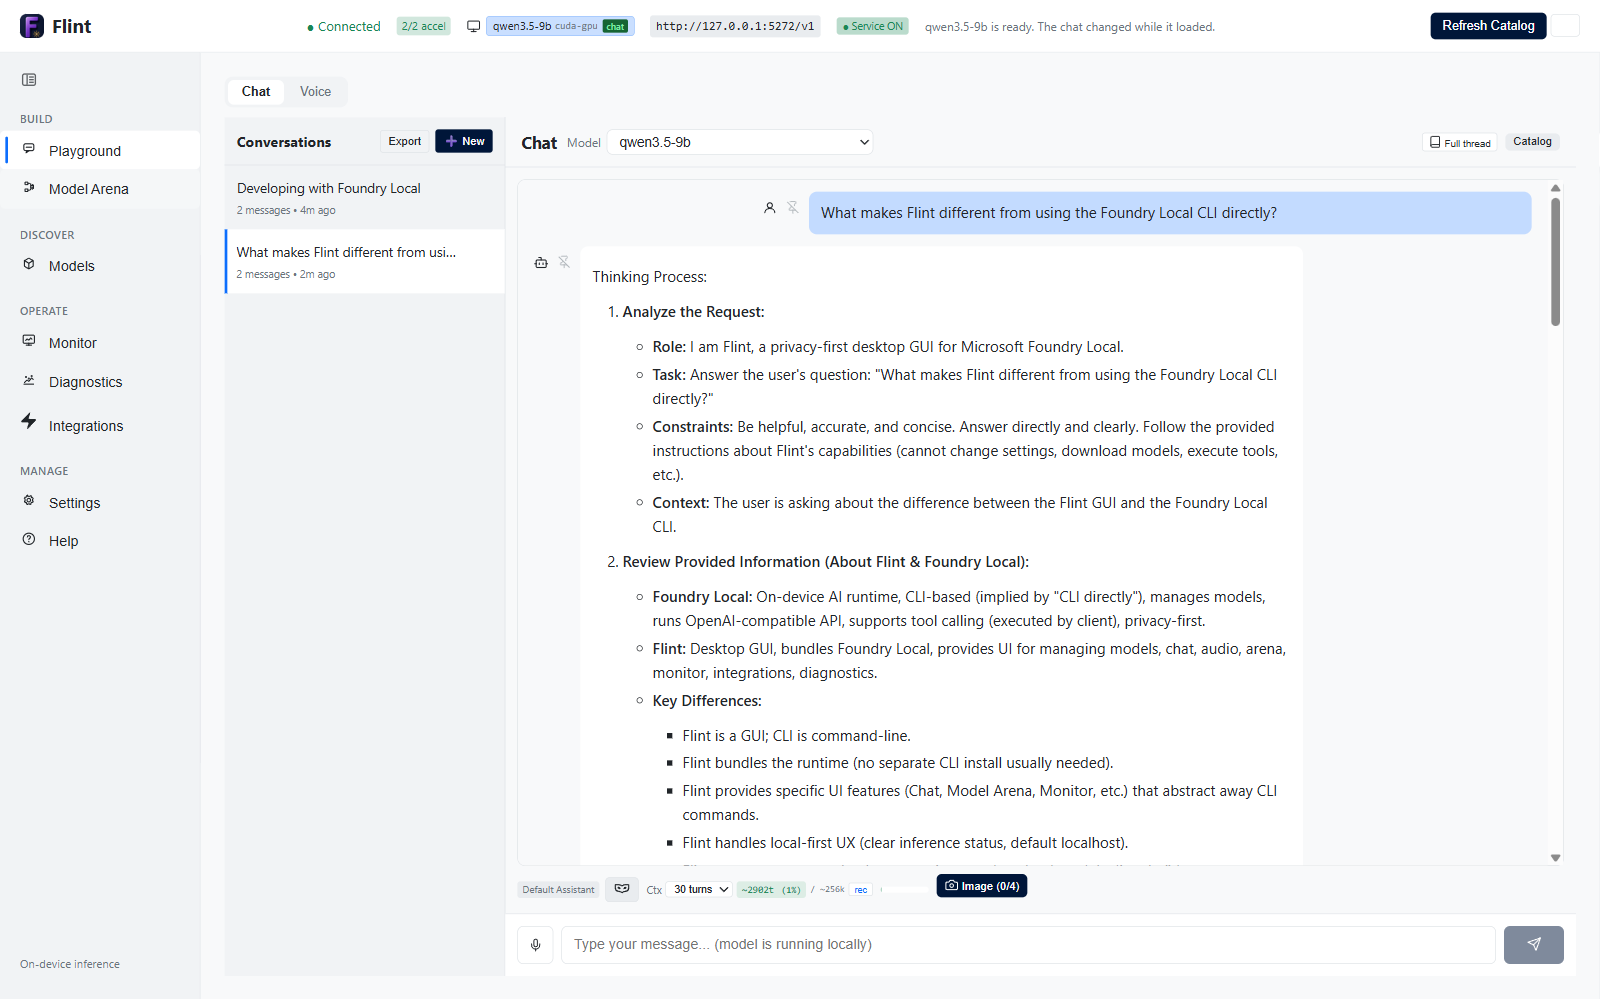
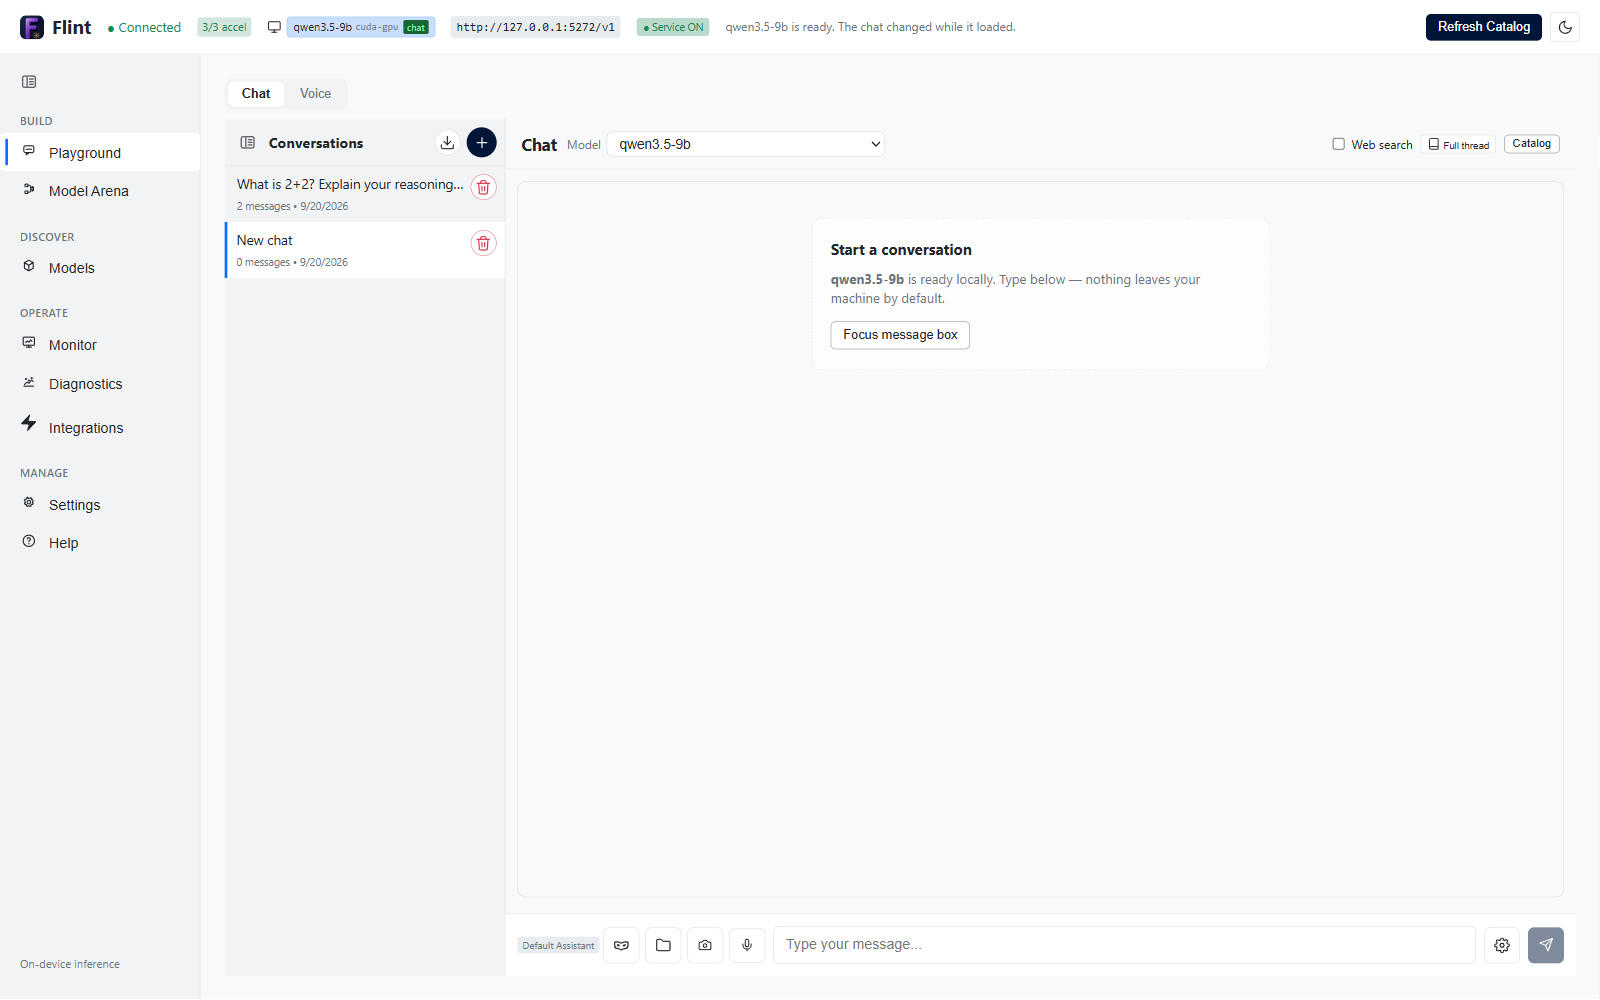
docs: refresh the 0.10.0 Windows screenshots and release notes (#192)
* docs: align the 0.10.0 release documentation

Name 0.9.2 as the published release and 0.10.0 as the next one. Record that the Windows screenshots were recaptured for that candidate and the macOS set was not. Correct Web search, the one-image limit, and where search approvals are cleared.

* docs: refresh the Windows README screenshots

Recapture the nine Windows sections in dark and light mode from a dev build stamped 0.10.0. The macOS images are unchanged.

* docs: record that the macOS screenshots are refreshed

The macOS images landed separately. The 0.10.0 notes no longer say those files are the previous capture.

* Finish 0.10.0 qualification gates and update screenshots

Complete qualification gates for version 0.10.0 and update README screenshots.

* Update README with new Windows and macOS screenshots

The README includes updated screenshots for Windows and macOS.

diff --git a/README.md b/README.md
@@ -53,7 +53,7 @@ Use the CLI when you want a terminal-first workflow. Use Flint when you want the
 - **Operate** — Monitor (pool, resource gauges, access/audit logs), Diagnostics (service start/stop, endpoint self-test, health ring), Integrations (copy-paste setup for OpenAI-compatible tools)
 - **Manage** — Settings (bind/port with Apply & restart, autostart, defaults, shortcuts (`?`)) and Help (first-run coaching, empty-state guidance, About strip)
 
-Chat supports streaming, conversations, personas, system prompts, multi-image vision, host-aware context, and optional URL → context. Audio supports mic + file transcription (STT).
+Chat supports streaming, conversations, personas, system prompts, one attached image on a vision model, host-aware context, URL chips, and an opt-in header Web search. Audio supports mic and file transcription.
 
 No system Node install is required: release builds bundle their own Node 22 runtime for the Foundry sidecar.
 
@@ -61,7 +61,7 @@ No system Node install is required: release builds bundle their own Node 22 runt
 
 ## Status
 
-Pre-1.0: expect breaking changes. **0.9.0 is Flint's first stable channel release** (0.8.0 was skipped), following the 0.7.0 evaluation prerelease. [Installers and release notes](https://github.com/joelst/flint/releases).
+Pre-1.0: expect breaking changes. The published stable release is **[0.9.2](https://github.com/joelst/flint/releases/tag/v0.9.2)**. **0.9.0** was the first stable channel release (0.8.0 was skipped), after the 0.7.0 evaluation prerelease. **0.10.0** is the next release from this tree and is not published yet. [Installers and release notes](https://github.com/joelst/flint/releases).
 
 - Windows installers carry a **public-trust Authenticode signature** issued through Azure Trusted Signing, so they validate against the Microsoft-managed root on any machine — no certificate to install and no "unknown publisher" prompt. Bundles ship the Foundry native cores and a pinned Node 22 runtime, verified in CI.
 - macOS builds are **unsigned** (no Apple Developer account) — install with the one-liner below, not the DMG, or Gatekeeper will call the app "damaged".
@@ -75,8 +75,8 @@ Living reliability plan: **[docs/PRODUCT_PLAN.md](./docs/PRODUCT_PLAN.md)** · E
 
 ## Screenshots
 
-Each section shows Windows and macOS in dark mode (Flint's default) and light mode. Benchmark Preview is opt-in and off by default, so it is not part of this default screenshot set.
-Regenerate these with `node scripts/capture-screenshots.mjs` — see
+Each section shows dark mode (Flint's default) and light mode. The Windows and macOS images were recaptured for the 0.10.0 candidate. The Windows capture is a dev build whose Help and Settings version reads v0.10.0. Benchmark Preview is opt-in and off by default, so it is not part of this set.
+Regenerate either platform with `node scripts/capture-screenshots.mjs` — see
 [docs/DEVELOPMENT.md](./docs/DEVELOPMENT.md#screenshots).
 
 ### Chat
@@ -166,7 +166,7 @@ Regenerate these with `node scripts/capture-screenshots.mjs` — see
 
 ### Use a release build
 
-1. Install a build from [GitHub Releases](https://github.com/joelst/flint/releases) (or build from source below). Once 0.9.0 is published as a full release (not a prerelease), it appears under "Latest".
+1. Install the latest full release from [GitHub Releases](https://github.com/joelst/flint/releases). That release is 0.9.2. Drafts and prereleases, including the unpublished 0.10.0 draft, are not what the in-app updater offers.
    - **macOS**: builds are unsigned, so a browser-downloaded DMG is blocked by Gatekeeper as "damaged". Install with:
 
      ```bash
@@ -175,7 +175,7 @@ Regenerate these with `node scripts/capture-screenshots.mjs` — see
 
      (Already installed the DMG? `xattr -cr /Applications/Flint.app` fixes it.)
 2. Open Flint (release installers include a bundled Node for the sidecar).  
-3. Download a small starter model → open **Chat**.  
+3. Download a small starter model, then open **Playground**.  
 4. Optional: **Diagnostics → Start service**, then use **Integrations** to wire other tools.  
 
 If the app cannot start the sidecar, install **Node.js 22+** LTS as a fallback or reinstall Flint.

diff --git a/docs/ADMIN.md b/docs/ADMIN.md
@@ -68,7 +68,7 @@ domain once, for this session, forever, or for all public URLs in that conversat
 A redirect to a different host asks for that host before it is contacted.
 URLs the user typed or attached do not ask again. A model `web_fetch` may use an HTTPS URL typed
 or attached in that same send without another prompt, or, after the domain approval above, a
-search-result URL from the conversation that ran the search. **Ask again for search and sites**
+search-result URL from the conversation that ran the search. **Ask again for search and sites**, in **Settings → Web** and in the chat header while an approval is stored,
 clears the saved and session approvals when the saved choice can be removed. If that write fails,
 Flint reports it and leaves both in place.
 Flint admits at most two helper processes at once and refuses excess retrievals explicitly. The
@@ -126,7 +126,7 @@ Delete those directories only if you intend to drop local models and chat histor
 
 ## Updater
 
-The in-app updater follows GitHub `releases/latest`. **Prereleases are skipped** — 0.7.0 evaluation builds must be installed by hand. **0.9.0** is the first stable publish (skip 0.8.0) so `latest.json` resolves; that is the upgrade test from 0.7.0. **1.0.0** is a later stable after that upgrade is proven.
+The in-app updater follows GitHub `releases/latest`. **Prereleases are skipped** — 0.7.0 evaluation builds must be installed by hand. **0.9.0** was the first stable publish (skip 0.8.0) so `latest.json` resolves; that was the upgrade test from 0.7.0. The current published stable release is **0.9.2**. **0.10.0** is the next release from this tree and is not published. **1.0.0** is a later stable after 0.10.0 qualification.
 
 Checking for updates is always manual (**Settings → About → Check**); Flint does not poll for updates automatically and shows no update-available banner elsewhere in the app. When an update is available, About offers two paths: **Install** it in place (visible download progress, then **Restart to update** or **Later**), or **View release** to open the GitHub release page and download/install it yourself.
 

diff --git a/docs/DEVELOPMENT.md b/docs/DEVELOPMENT.md
@@ -210,17 +210,26 @@ on every development OS. SVG generation is intentionally excluded.
 
 ## Screenshots
 
-README and docs screenshots go stale after UI changes (nav labels, theme, branding). To
-refresh them:
+README and docs screenshots go stale after UI changes (nav labels, theme, branding).
+The Windows and macOS PNGs in `images/` were recaptured for the 0.10.0 candidate.
 
-1. Launch the dev build. On Windows, enable WebView2's remote debugging port so its
-   content can be driven over the Chrome DevTools Protocol (CDP):
+To refresh them:
+
+1. Launch the dev build with the version the screenshots should show. Help and
+   Settings render `VITE_FLINT_BUILD_VERSION` when it is set, and otherwise
+   `package.json`. Set it to the next release (currently `0.10.0`) in the same
+   terminal that starts the dev build, before Vite starts. That does not change
+   `package.json`, `src-tauri/tauri.conf.json`, or `src-tauri/Cargo.toml`.
+   On Windows, also enable WebView2's remote debugging port so its content can be
+   driven over the Chrome DevTools Protocol (CDP):
    ```powershell
+   $env:VITE_FLINT_BUILD_VERSION = "0.10.0"
    $env:WEBVIEW2_ADDITIONAL_BROWSER_ARGUMENTS = "--remote-debugging-port=9222"
    .\build-local.ps1 -Command "npm run tauri dev"
    ```
-   On macOS, run `npm run tauri dev` normally. The terminal that invokes the capture
-   script needs Accessibility and Screen Recording permission.
+   On macOS, run `VITE_FLINT_BUILD_VERSION=0.10.0 npm run tauri dev`. The terminal
+   that invokes the capture script needs Accessibility and Screen Recording
+   permission.
 2. Once the window is visible and connected, in another terminal run:
    ```powershell
    node scripts/capture-screenshots.mjs

diff --git a/docs/USER_GUIDE.md b/docs/USER_GUIDE.md
@@ -37,7 +37,7 @@ The sidebar is grouped by workflow:
 
 3. **Playground**  
    - Open **Playground**, send a message. A **Chat / Voice** toggle inside switches modes.  
-   - Optional: personas, text/code files, image attach (vision models), URL → context chips.
+   - Optional: personas, text or code files, one image on a vision model, URL chips, and the header **Web search** checkbox. The first search asks before it runs.
 
 4. **Optional — service for other apps**  
    - **Diagnostics → Start service**.  
@@ -112,7 +112,7 @@ The sidebar is grouped by workflow:
   clicking that chip's **Fetch** is a separate explicit action: the page is requested immediately,
   with the toggle on or off and before you send, through the same isolated helper. Sending clears
   every URL chip; a page still loading when you send is not used for that message or any later one.
-  **Ask again for search and sites** in Generation settings clears those approvals. It does not clear
+  **Ask again for search and sites** is in **Settings → Web**. The same button also appears in the chat header while an approval is stored. It clears those approvals. It does not clear
   the blocklist or the new-chat default.
   If that saved choice cannot be written, Flint reports the failure and leaves the previous choice in place.
   **Remember for new chats** in Settings is separate from the header checkbox. The first time it is turned

diff --git a/FLINT_DESIGN_SPEC.md b/FLINT_DESIGN_SPEC.md
@@ -100,7 +100,7 @@ speech-to-text, audit logging, bind-address/network control.
 
 ### Inference
 
-- **Playground** — Chat (streaming, personas, system prompts, conversation history, vision image attach when supported) and Voice (microphone + file transcription, STT models) in one view with a Chat/Voice toggle
+- **Playground** — Chat (streaming, personas, system prompts, conversation history, one vision image when supported, opt-in public Web search) and Voice (microphone + file transcription, STT models) in one view with a Chat/Voice toggle
 - **Model Arena** — Quick Compare: live-streamed side-by-side model responses (bake-off) with served variant/execution provider/status
 - **Benchmark Preview** — opt-in, off by default: measured, repeatable multi-model benchmark runs with a hardened Stop/Resume lifecycle
 
@@ -112,7 +112,7 @@ speech-to-text, audit logging, bind-address/network control.
 - **Help** — Foundry Local education + tool-calling boundary
 - Persistent local-first privacy messaging
 
-Navigation is grouped as **Build** (Playground, Model Arena, Benchmark Preview),
+Navigation is grouped as **Build** (Playground, Model Arena, and Benchmark Preview when that Settings preview is on),
 **Discover** (Models), **Operate** (Monitor, Diagnostics, Integrations), and
 **Manage** (Settings, Help).
 

diff --git a/docs/BACKLOG.md b/docs/BACKLOG.md
@@ -13,10 +13,11 @@ Do not add 1.0 work here; that duplicates the plan and the two will drift.
 ## Current execution priorities
 
 Finish the **0.10.0** qualification gates in
-[PRODUCT_PLAN.md](./PRODUCT_PLAN.md): packaged Benchmark Preview dogfood, the
-bounded public web-retrieval boundary, infrastructure/release validation, and
-the generated release review. Then continue the remaining 1.0 process gates:
-signed clean-machine Windows dogfood, stable updater evidence, and pinned
+[PRODUCT_PLAN.md](./PRODUCT_PLAN.md): packaged Benchmark Preview dogfood,
+confirmation that the shipped public web-retrieval helper still matches its
+boundary, infrastructure/release validation, and the generated release review. Then
+continue the remaining 1.0 process gates: signed clean-machine Windows dogfood,
+stable updater evidence, and pinned
 integration versions. Defer wholesale Foundry runtime replacement.
 
 **Linux work is deferred:** preserve existing checks and mappings. Continue

diff --git a/docs/EXTENDING.md b/docs/EXTENDING.md
@@ -10,8 +10,7 @@ document workflows, evaluation tools, integrations, or new views.
 
 ## Architecture boundaries
 
-The Rust runtime supervisor (introduced in the 0.7.0 foundation, current through
-0.9.0) owns the sidecar process and bridges stdio JSON lines to the frontend SDK
+The Rust runtime supervisor (introduced in the 0.7.0 foundation) owns the sidecar process and bridges stdio JSON lines to the frontend SDK
 transport.
 
 ```text
@@ -197,4 +196,4 @@ complete build and publication procedures.
 Describe the user problem, the Flint seam used, the new command or data shape,
 failure and cancellation semantics, tests, and any new resource or permission.
 Keep the change behind existing runtime ownership and document whether it is
-part of the current stable (0.9.0) surface or remains a later backlog feature.
+part of the published stable surface or remains a later backlog feature. The published stable release is 0.9.2. The next release from this tree is 0.10.0.

diff --git a/RELEASE_ROADMAP.md b/RELEASE_ROADMAP.md
@@ -59,7 +59,7 @@ work:
 - packaged Windows Benchmark Preview dogfood covers pin, Stop, Resume,
   served-variant reporting, and a gateway `503`; the preview stays opt-in and
   off by default until that evidence exists;
-- a bounded, read-only public web-search/retrieval helper may be added outside
+- the bounded, read-only public web-search/retrieval helper stays outside
   the Foundry sidecar, with no ambient credentials or filesystem operations
   exposed to retrieved content and with request-scoped untrusted content;
 - unit/contract/sidecar E2E, bundle verification, packaged runtime smoke, and

diff --git a/docs/PRODUCT_PLAN.md b/docs/PRODUCT_PLAN.md
@@ -29,7 +29,9 @@ unfinished; newly completed work must flow into it through normal changesets.
 
 ### Tool and retrieval boundary
 
-- Flint may add a narrow, read-only public web-search/retrieval tool; this does
+The helper below is in the tree. 0.10.0 still requires the published build to match these rules.
+
+- The public web-search/retrieval tool stays narrow and read-only. It does
   not turn Playground into an autonomous agent runtime.
 - Run retrieval outside the Foundry sidecar in a separately supervised helper.
   Give it only the explicit query or URL, a minimal environment, bounded JSON

diff --git a/CHANGELOG.md b/CHANGELOG.md
@@ -1,5 +1,9 @@
 # Flint Changelog
 
+## 0.9.2
+
+Maintenance release built from the 0.9.0 line through #150. It adds the About release link, release icon packaging fix, optional startup catalog check, and benchmark/download admission fix, plus selected #153 visual improvements for control contrast, chat-tool layout, and readable compact actions. This is the current published GitHub release. It does not include the later mainline Foundry Local SDK 2.0.1 pin recorded under 0.9.1. The next release from this tree is 0.10.0.
+
 ## 0.9.1
 
 ### Patch Changes

diff --git a/.changeset/readme-screenshots.md b/.changeset/readme-screenshots.md
@@ -1,0 +1,4 @@
+---
+---
+
+The README shows the refreshed Windows and macOS screenshots for this release.
